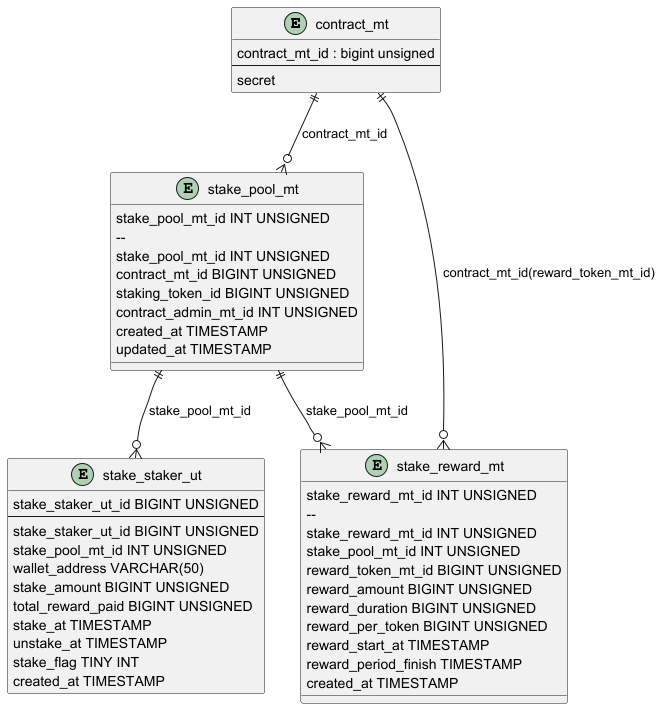
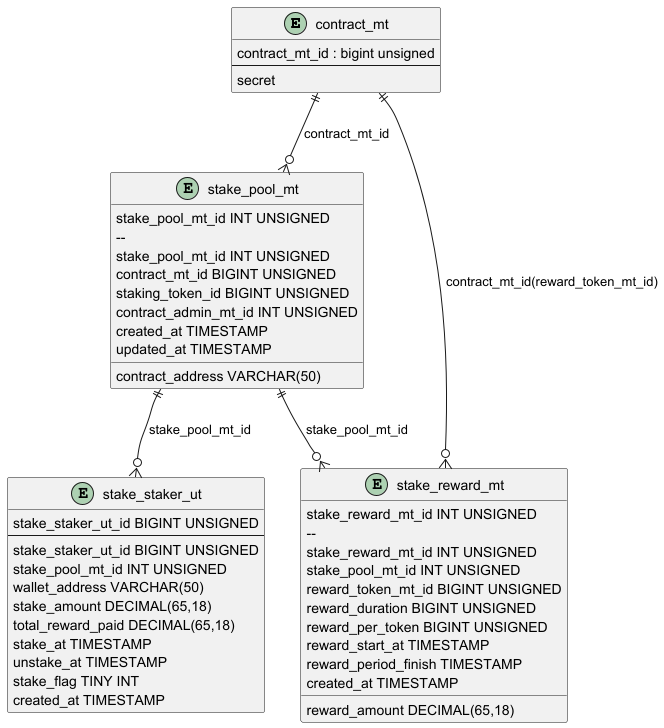
add: entity, document file

diff --git a/src/main/java/single/project/stakeapi/application/model/entity/StakeReward.java b/src/main/java/single/project/stakeapi/application/model/entity/StakeReward.java
@@ -1,0 +1,52 @@
+package single.project.stakeapi.application.model.entity;
+
+import jakarta.persistence.Column;
+import jakarta.persistence.Entity;
+import jakarta.persistence.Id;
+import lombok.AccessLevel;
+import lombok.Data;
+import lombok.Getter;
+import lombok.Setter;
+import lombok.experimental.FieldDefaults;
+import org.hibernate.annotations.CreationTimestamp;
+import org.hibernate.annotations.SourceType;
+
+import java.math.BigDecimal;
+import java.math.BigInteger;
+import java.time.LocalDateTime;
+
+@Entity
+@Getter
+@Setter
+@FieldDefaults(level = AccessLevel.PRIVATE)
+public class StakeReward {
+    @Id
+    @Column(name = "stake_reward_mt_id")
+    Long id;
+
+    @Column(name = "stake_pool_mt_id")
+    Long stakePoolId;
+
+    @Column(name = "reward_token_id")
+    BigInteger rewardTokenId;
+
+    @Column(name = "reward_amount")
+    BigDecimal rewardAmount;
+
+    @Column(name = "reward_duration")
+    BigInteger rewardDuration;
+
+    @Column(name = "reward_per_token")
+    BigInteger rewardPerToken;
+
+    @Column(name = "reward_start_at")
+    LocalDateTime rewardStartAt;
+
+    @Column(name = "reward_period_finish")
+    LocalDateTime rewardPeriodFinish;
+
+    @CreationTimestamp(source = SourceType.DB)
+    @Column(name = "created_at", nullable = false)
+    LocalDateTime createdAt;
+
+}

diff --git a/src/main/java/single/project/stakeapi/application/model/entity/Staker.java b/src/main/java/single/project/stakeapi/application/model/entity/Staker.java
@@ -1,0 +1,50 @@
+package single.project.stakeapi.application.model.entity;
+
+import jakarta.persistence.Column;
+import jakarta.persistence.Entity;
+import jakarta.persistence.Id;
+import jakarta.validation.constraints.Size;
+import lombok.AccessLevel;
+import lombok.Data;
+import lombok.Getter;
+import lombok.Setter;
+import lombok.experimental.FieldDefaults;
+import org.hibernate.annotations.CreationTimestamp;
+import org.hibernate.annotations.SourceType;
+import single.project.stakeapi.application.model.entity.base.BaseEntity;
+
+import java.math.BigDecimal;
+import java.math.BigInteger;
+import java.time.LocalDateTime;
+
+@Entity
+@Getter
+@Setter
+@FieldDefaults(level = AccessLevel.PRIVATE)
+public class Staker extends BaseEntity {
+    @Id
+    @Column(name = "stake_staker_ut_id")
+    Long id;
+
+    @Column(name = "stake_pool_mt_id")
+    Long stakePoolId;
+
+    @Size(max = 50)
+    @Column(name = "wallet_address")
+    String walletAddress;
+
+    @Column(name = "stake_amount")
+    BigDecimal stakeAmount;
+
+    @Column(name = "total_reward_paid")
+    BigDecimal totalRewardPaid;
+
+    @Column(name = "stake_flag")
+    Boolean stakeFlag;
+
+    @Column(name = "stake_at")
+    LocalDateTime stakeAt;
+
+    @Column(name = "unstake_at")
+    LocalDateTime unstakeAt;
+}

diff --git a/src/main/java/single/project/stakeapi/application/model/entity/base/BaseEntity.java b/src/main/java/single/project/stakeapi/application/model/entity/base/BaseEntity.java
@@ -1,0 +1,36 @@
+package single.project.stakeapi.application.model.entity.base;
+
+
+import jakarta.persistence.Column;
+import jakarta.persistence.MappedSuperclass;
+import lombok.AccessLevel;
+import lombok.Getter;
+import lombok.NoArgsConstructor;
+import lombok.experimental.FieldDefaults;
+import lombok.experimental.SuperBuilder;
+import org.hibernate.annotations.CreationTimestamp;
+import org.hibernate.annotations.SourceType;
+
+import java.time.LocalDateTime;
+
+/**
+ * author      : mark
+ * date        : 2024/10/17
+ * description : entity 공통 클래스
+ **/
+
+@Getter
+@SuperBuilder
+@MappedSuperclass
+@FieldDefaults(level = AccessLevel.PRIVATE)
+@NoArgsConstructor(access = AccessLevel.PROTECTED)
+public abstract class BaseEntity {
+    @CreationTimestamp(source = SourceType.DB)
+    @Column(name = "created_at", nullable = false)
+    LocalDateTime createdAt;
+
+    @CreationTimestamp(source = SourceType.DB)
+    @Column(name = "updated_at", nullable = false)
+    LocalDateTime updatedAt;
+
+}

diff --git a/src/main/java/single/project/stakeapi/application/model/entity/StakePool.java b/src/main/java/single/project/stakeapi/application/model/entity/StakePool.java
@@ -1,0 +1,37 @@
+package single.project.stakeapi.application.model.entity;
+
+import jakarta.persistence.Column;
+import jakarta.persistence.Entity;
+import jakarta.persistence.Id;
+import jakarta.validation.constraints.Size;
+import lombok.AccessLevel;
+import lombok.Data;
+import lombok.Getter;
+import lombok.Setter;
+import lombok.experimental.FieldDefaults;
+import single.project.stakeapi.application.model.entity.base.BaseEntity;
+
+import java.math.BigInteger;
+
+@Entity
+@Getter
+@Setter
+@FieldDefaults(level = AccessLevel.PRIVATE)
+public class StakePool extends BaseEntity {
+    @Id
+    @Column(name = "stake_pool_mt_id")
+    Long id;
+
+    @Column(name = "contract_mt_id")
+    BigInteger contractId;
+
+    @Column(name = "staking_token_id")
+    BigInteger stakingTokenId;
+
+    @Column(name = "contract_admin_mt_id")
+    BigInteger contractAdminId;
+
+    @Size(max = 50)
+    @Column(name = "contract_address")
+    String contractAddress;
+}

diff --git a/src/main/java/single/project/stakeapi/application/model/entity/Contract.java b/src/main/java/single/project/stakeapi/application/model/entity/Contract.java
@@ -1,0 +1,37 @@
+package single.project.stakeapi.application.model.entity;
+
+import jakarta.persistence.Column;
+import jakarta.persistence.Entity;
+import jakarta.persistence.Id;
+import jakarta.validation.constraints.Size;
+import lombok.AccessLevel;
+import lombok.Data;
+import lombok.Getter;
+import lombok.Setter;
+import lombok.experimental.FieldDefaults;
+import single.project.stakeapi.application.model.entity.base.BaseEntity;
+
+import java.math.BigInteger;
+
+@Entity
+@Getter
+@Setter
+@FieldDefaults(level = AccessLevel.PRIVATE)
+public class Contract extends BaseEntity {
+    @Id
+    @Column(name = "contract_mt_id")
+    BigInteger id;
+
+    @Column(name = "chain_mt_id")
+    Long chainId;
+
+    @Column(name = "abi_mt_id")
+    BigInteger abiId;
+
+    @Column(name = "contract_admin_mt_id")
+    BigInteger contractAdminId;
+
+    @Size(max = 50)
+    @Column(name = "contract_name")
+    String contractName;
+}

diff --git a/src/main/java/single/project/stakeapi/application/model/entity/ContractAdmin.java b/src/main/java/single/project/stakeapi/application/model/entity/ContractAdmin.java
@@ -1,0 +1,34 @@
+package single.project.stakeapi.application.model.entity;
+
+import jakarta.persistence.Column;
+import jakarta.persistence.Entity;
+import jakarta.persistence.Id;
+import jakarta.validation.constraints.Size;
+import lombok.AccessLevel;
+import lombok.Data;
+import lombok.Getter;
+import lombok.Setter;
+import lombok.experimental.FieldDefaults;
+import single.project.stakeapi.application.model.entity.base.BaseEntity;
+
+import java.math.BigInteger;
+
+@Entity
+@Getter
+@Setter
+@FieldDefaults(level = AccessLevel.PRIVATE)
+public class ContractAdmin extends BaseEntity {
+    @Id
+    @Column(name = "contract_admin_mt_id")
+    BigInteger id;
+
+    @Size(max = 50)
+    @Column(name = "public_address")
+    String publicAddress;
+
+    @Column(name = "private_address_key")
+    String privateAddressKey;
+
+    @Column(name = "private_address_value")
+    String privateAddressValue;
+}

diff --git a/src/main/java/single/project/stakeapi/application/model/entity/Abi.java b/src/main/java/single/project/stakeapi/application/model/entity/Abi.java
@@ -1,0 +1,31 @@
+package single.project.stakeapi.application.model.entity;
+
+import jakarta.persistence.Column;
+import jakarta.persistence.Entity;
+import jakarta.persistence.Id;
+import jakarta.validation.constraints.Size;
+import lombok.AccessLevel;
+import lombok.Data;
+import lombok.Getter;
+import lombok.Setter;
+import lombok.experimental.FieldDefaults;
+import single.project.stakeapi.application.model.entity.base.BaseEntity;
+
+import java.math.BigInteger;
+
+@Entity
+@Getter
+@Setter
+@FieldDefaults(level = AccessLevel.PRIVATE)
+public class Abi extends BaseEntity {
+    @Id
+    @Column(name = "abi_mt_id")
+    BigInteger id;
+
+    @Size(max = 50)
+    @Column(name = "contract_name")
+    String contractName;
+
+    @Column(name = "abi")
+    String abi;
+}

diff --git a/src/main/java/single/project/stakeapi/application/model/entity/Chain.java b/src/main/java/single/project/stakeapi/application/model/entity/Chain.java
@@ -1,0 +1,29 @@
+package single.project.stakeapi.application.model.entity;
+
+import jakarta.persistence.Column;
+import jakarta.persistence.Entity;
+import jakarta.persistence.Id;
+import jakarta.validation.constraints.Size;
+import lombok.AccessLevel;
+import lombok.Data;
+import lombok.Getter;
+import lombok.Setter;
+import lombok.experimental.FieldDefaults;
+import single.project.stakeapi.application.model.entity.base.BaseEntity;
+
+@Entity
+@Getter
+@Setter
+@FieldDefaults(level = AccessLevel.PRIVATE)
+public class Chain extends BaseEntity {
+    @Id
+    @Column(name = "chain_mt_id")
+    Long id;
+
+    @Size(max = 50)
+    @Column(name = "network_name")
+    String networkName;
+
+    @Column(name = "network_id")
+    Long networkId;
+}
